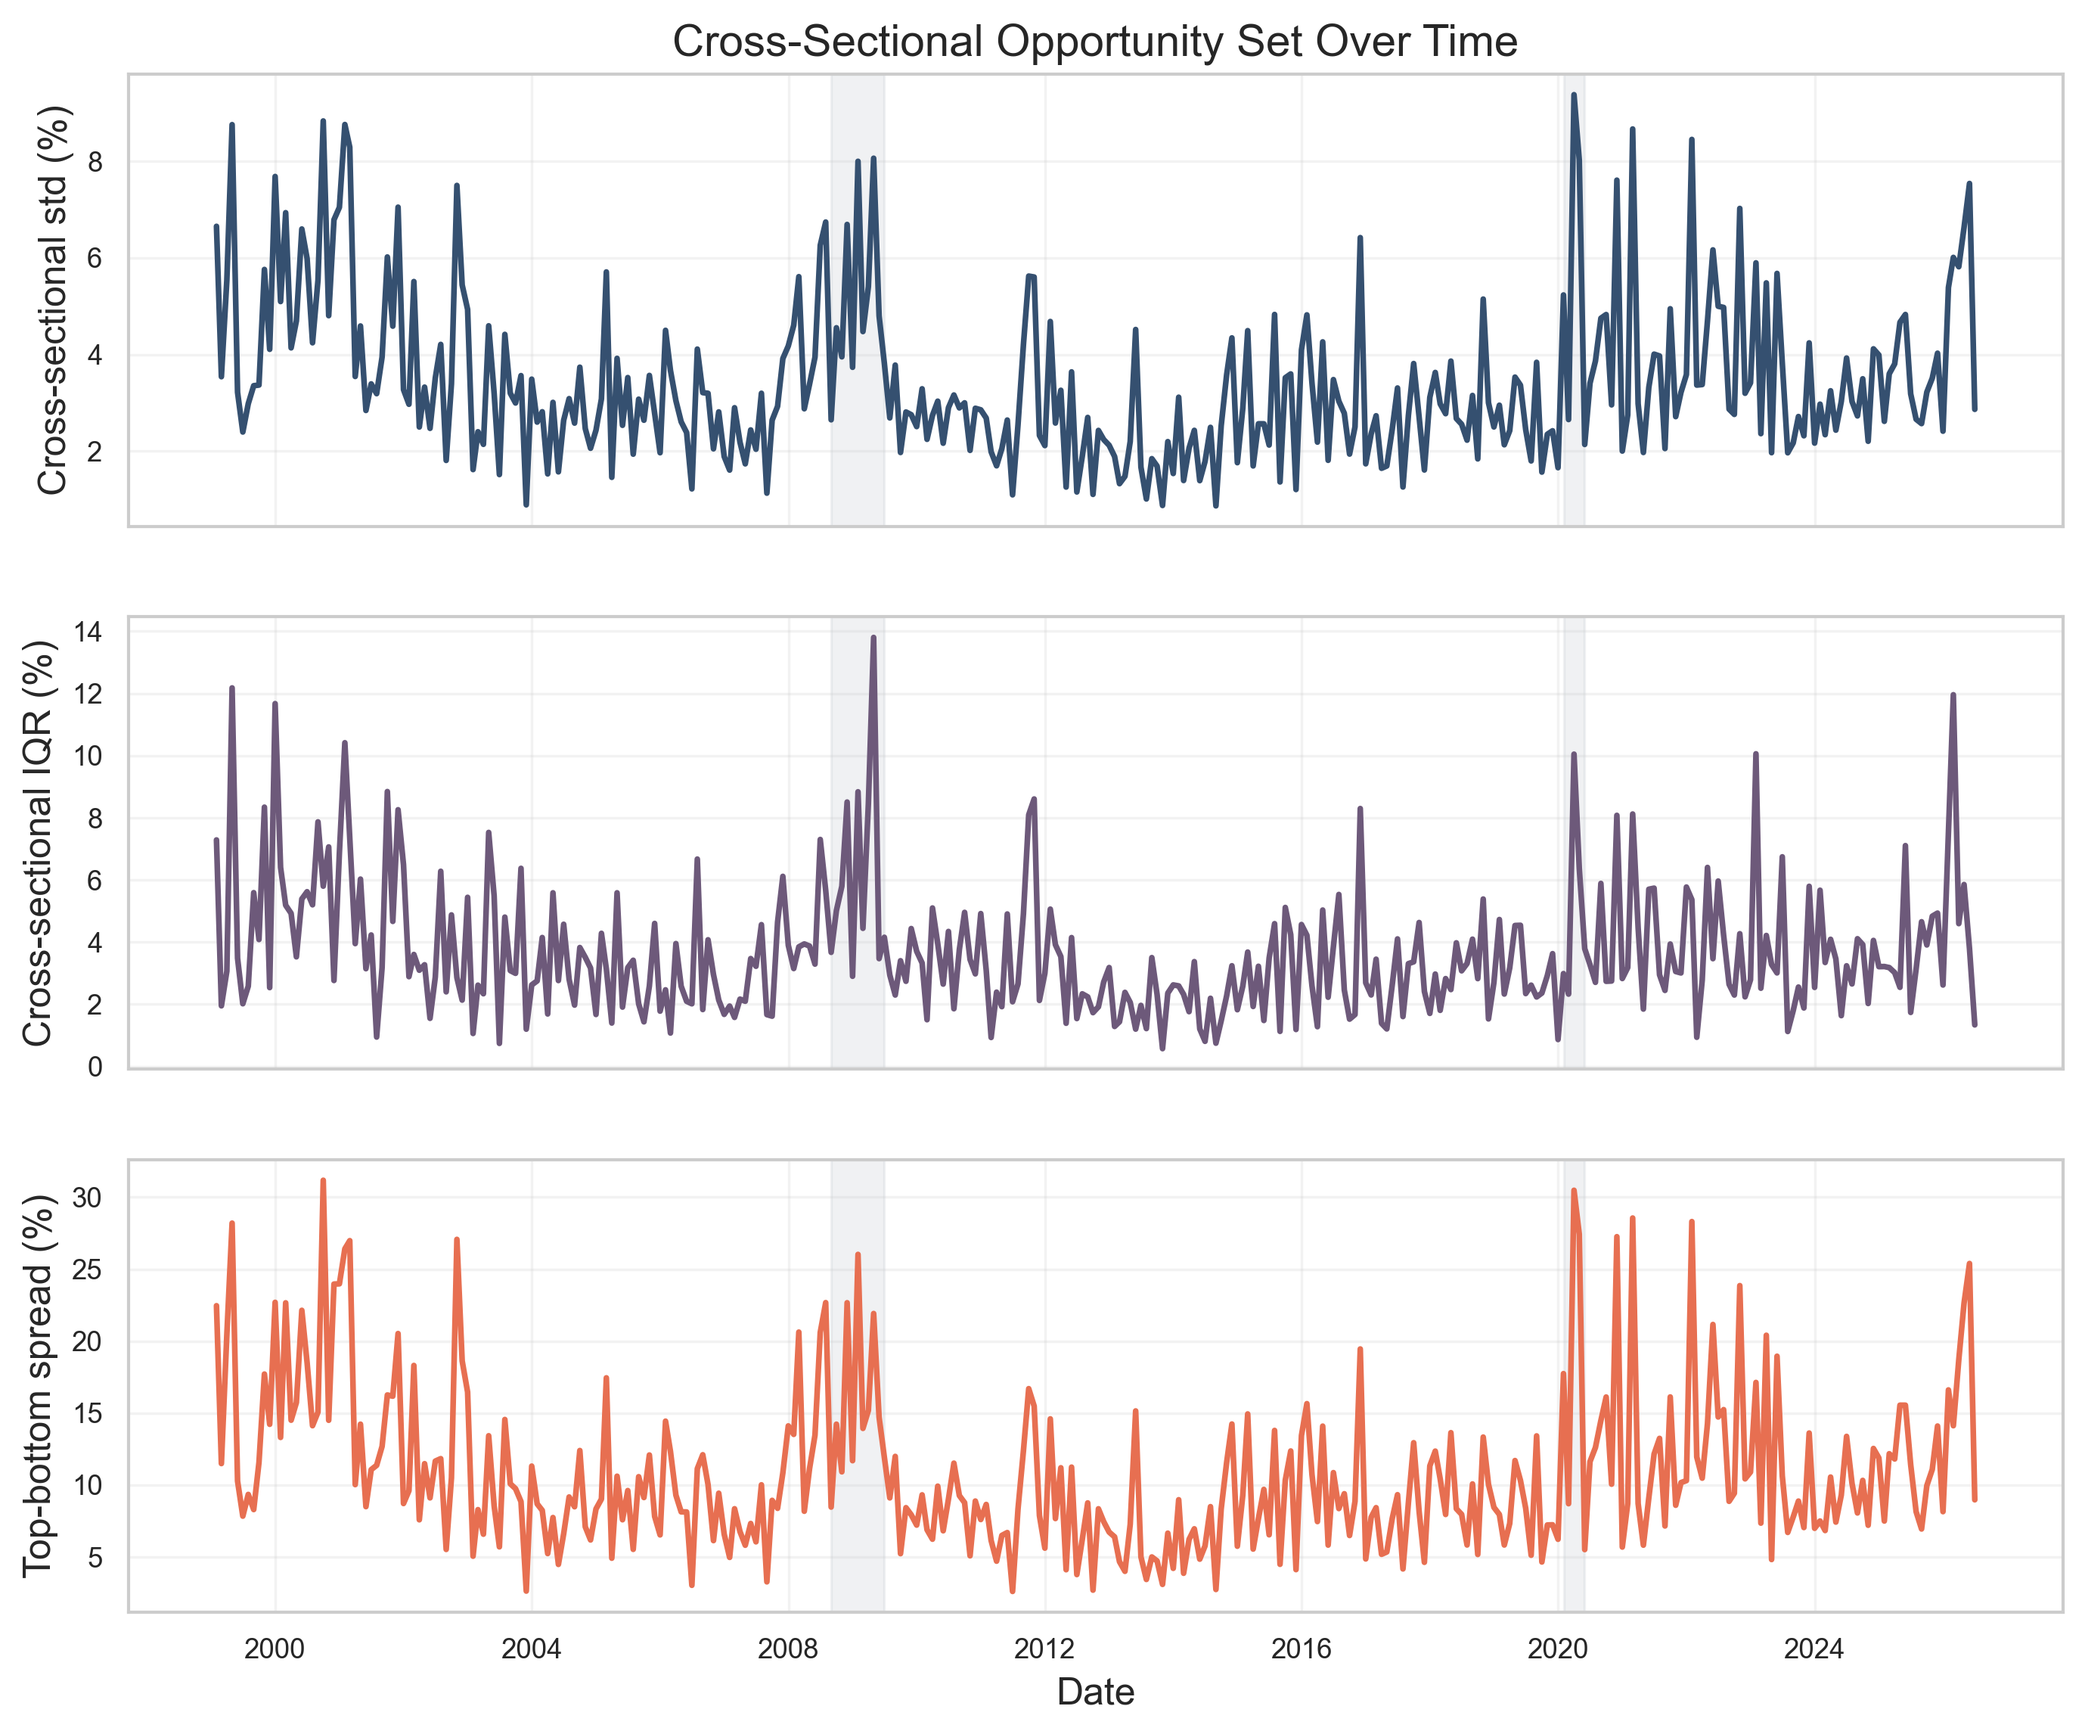
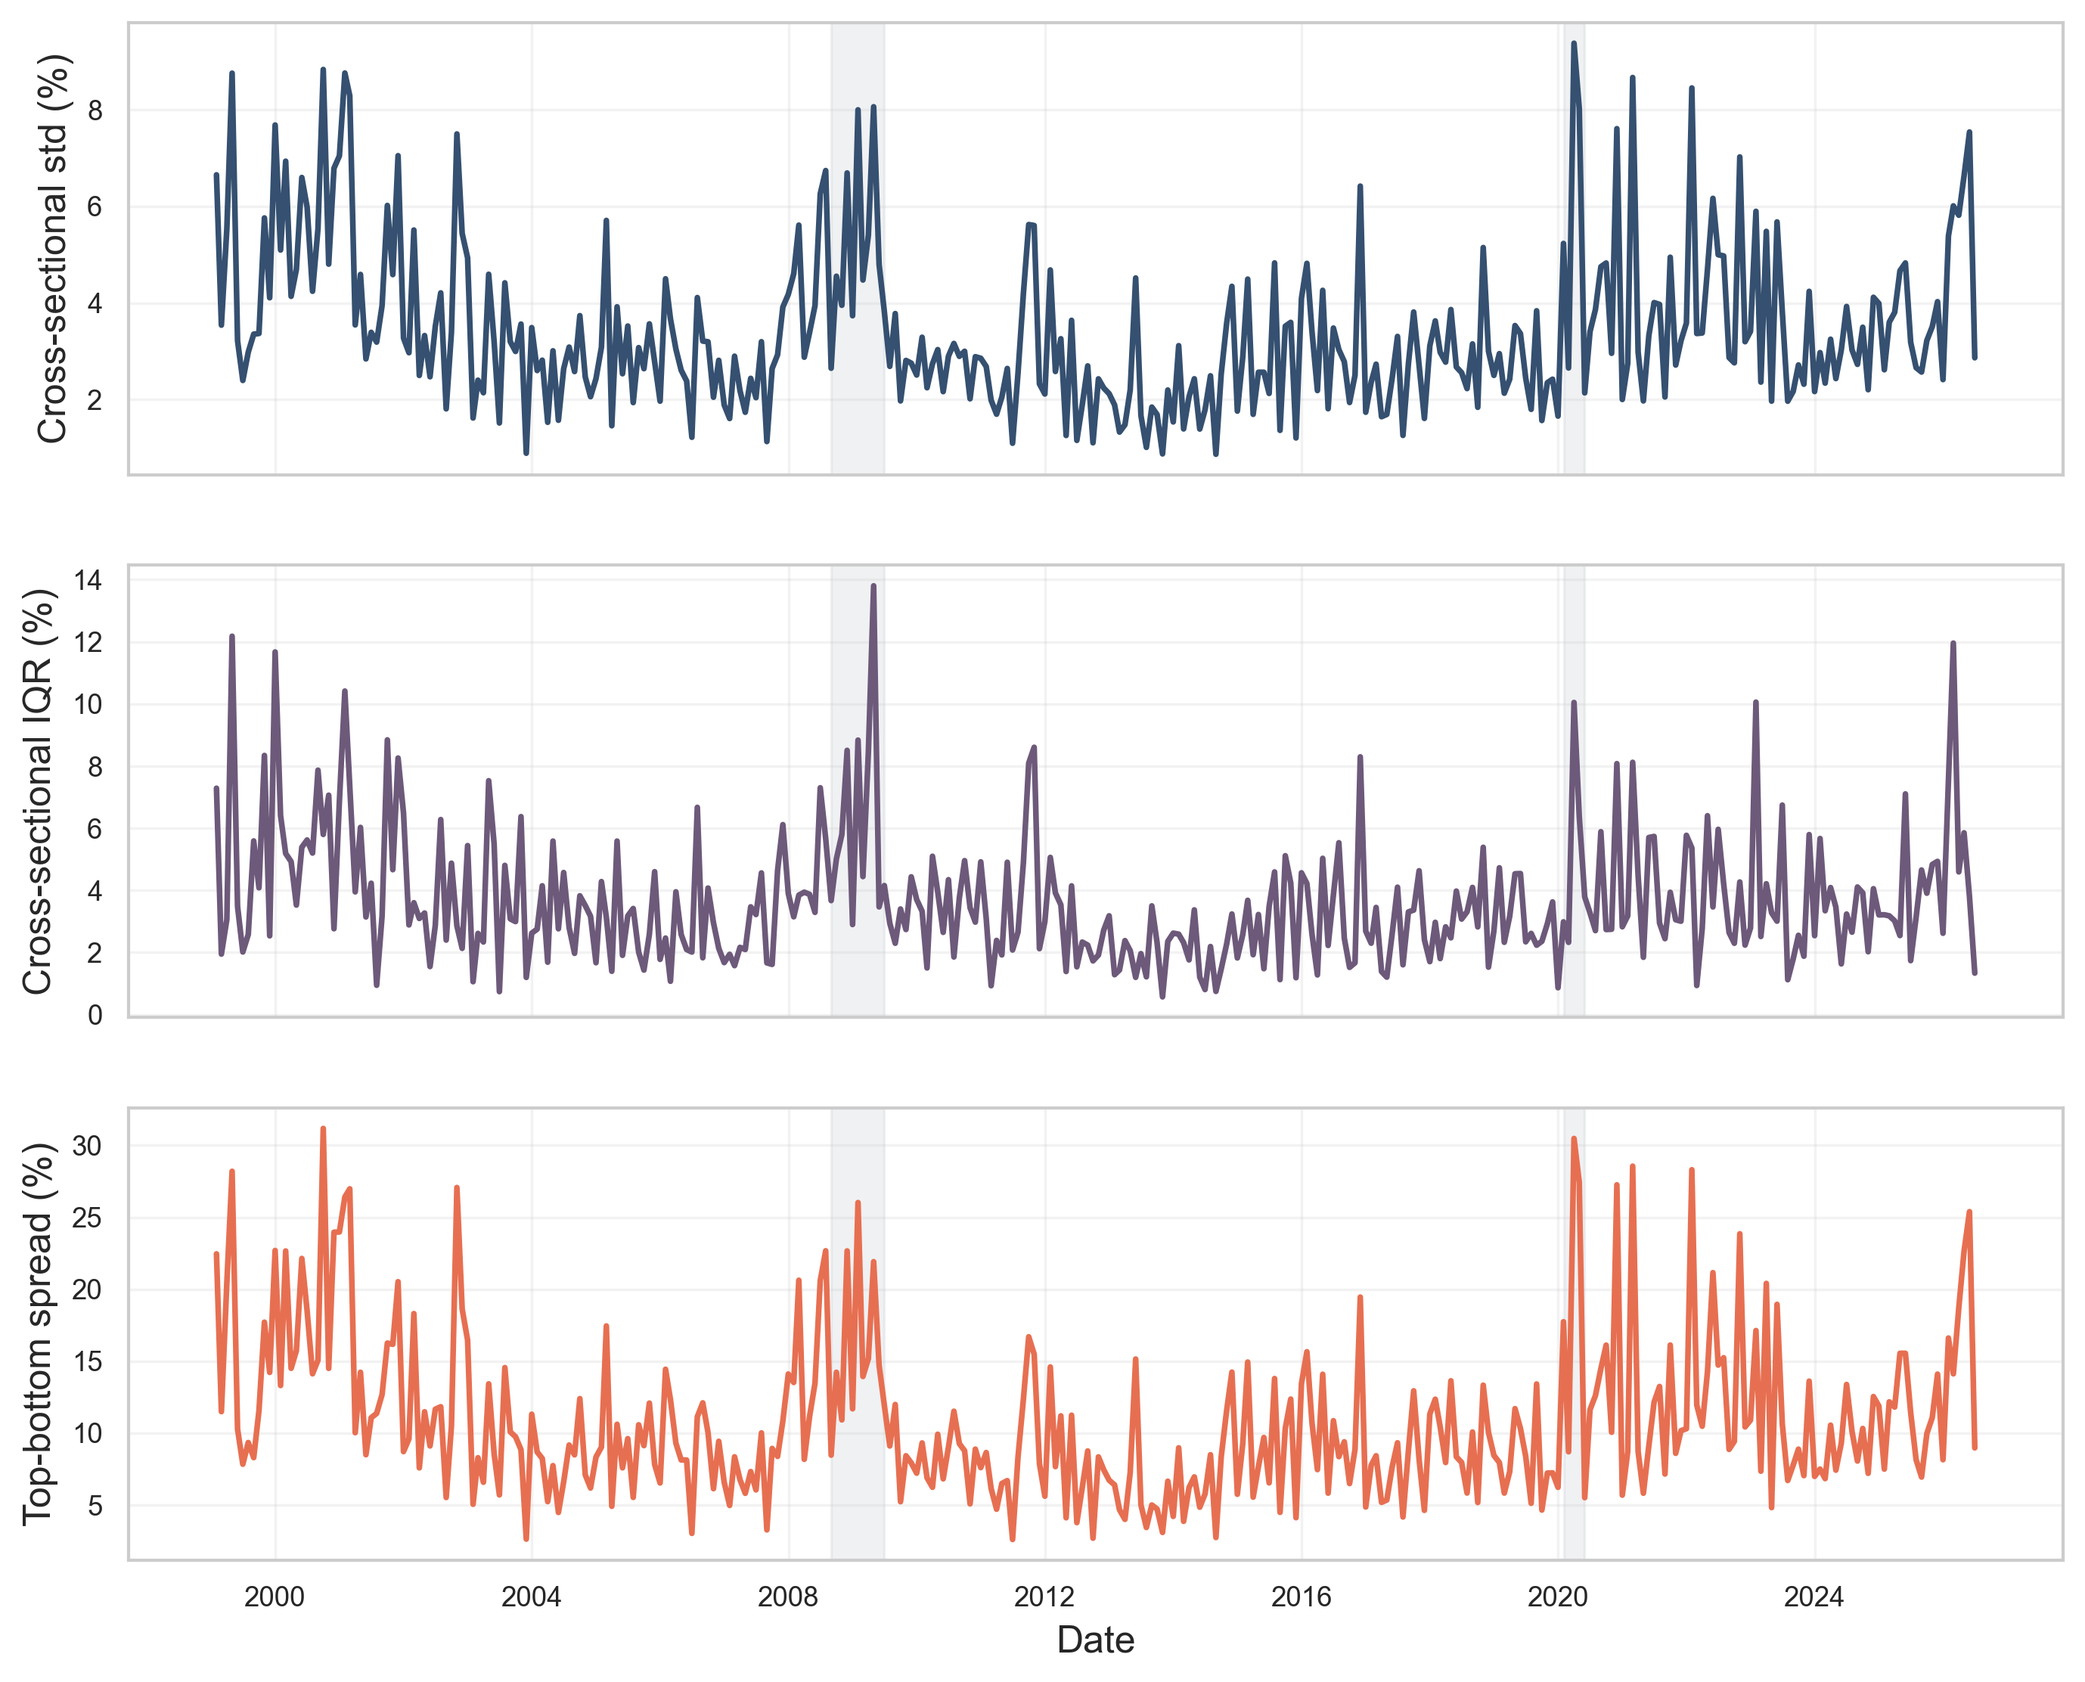
Refine appendix figures for citation layout

diff --git a/scripts/generate_report_assets.py b/scripts/generate_report_assets.py
@@ -1091,7 +1091,6 @@ def make_figure_d2_factor_score_correlation_heatmap() -> None:
 
     plt.figure(figsize=(7.2, 6))
     sns.heatmap(corr, annot=True, cmap="RdBu_r", center=0, fmt=".2f", square=True, cbar_kws={"shrink": 0.8})
-    plt.title("Core Dimension Proxy Correlation")
     plt.xlabel("")
     plt.ylabel("")
     plt.savefig(FIGURES_DIR / "figure_d2_factor_score_correlation_heatmap.png")
@@ -1250,7 +1249,6 @@ def make_figure_dd2_cross_sectional_opportunity_timeseries() -> None:
         for start, end in event_windows:
             ax.axvspan(start, end, color="#adb5bd", alpha=0.18, zorder=0)
         ax.grid(alpha=0.25)
-    axes[0].set_title("Cross-Sectional Opportunity Set Over Time")
     axes[-1].set_xlabel("Date")
     fig.savefig(FIGURES_DIR / "figure_dd2_cross_sectional_opportunity_timeseries.png")
     plt.close(fig)
@@ -1269,7 +1267,6 @@ def make_figure_dd3_market_dependence_bar() -> None:
 
     plt.figure(figsize=(9.5, 6.2))
     ax = sns.barplot(data=plot_frame, x="ticker", y="r_squared_pct", hue="ticker", palette="crest", legend=False)
-    plt.title("Sector ETF Dependence on SPY")
     plt.xlabel("ETF")
     plt.ylabel("Monthly return variance explained by SPY (%)")
     for container in ax.containers:
@@ -1376,7 +1373,7 @@ def make_figure_dd4_regime_dependence_comparison() -> None:
         axes[0].errorbar(offsets, medians, yerr=[lower, upper], fmt="none", ecolor="#444444", capsize=4, lw=1)
     axes[0].set_xticks(x)
     axes[0].set_xticklabels([label.replace(" of returns", "") for label, _ in opportunity_metrics], rotation=0)
-    axes[0].set_title("Opportunity set")
+    axes[0].set_title("(a) Opportunity set")
     axes[0].set_ylabel("Median monthly value (%)")
 
     commonality_x = np.arange(1)
@@ -1396,7 +1393,7 @@ def make_figure_dd4_regime_dependence_comparison() -> None:
         )
     axes[1].set_xticks(commonality_x)
     axes[1].set_xticklabels(["PC1 variance share"])
-    axes[1].set_title("Commonality")
+    axes[1].set_title("(b) Commonality")
     axes[1].set_ylabel("Median monthly share (%)")
 
     for ax in axes:
@@ -1404,17 +1401,8 @@ def make_figure_dd4_regime_dependence_comparison() -> None:
         ax.set_axisbelow(True)
 
     handles = [Patch(facecolor=palette[regime], label=regime) for regime in regimes]
-    fig.legend(handles=handles, labels=regimes, loc="upper center", ncol=2, frameon=True, bbox_to_anchor=(0.5, 0.98))
-    fig.suptitle("Ranking Environment by VIX Regime", y=1.03, fontsize=18)
-    fig.text(
-        0.5,
-        -0.02,
-        "Bars show regime medians; whiskers show interquartile ranges. Commonality is measured as the share of cross-sector return variance explained by the first principal component.",
-        ha="center",
-        va="top",
-        fontsize=10,
-    )
-    fig.tight_layout()
+    fig.legend(handles=handles, labels=regimes, loc="upper center", ncol=2, frameon=True, bbox_to_anchor=(0.5, 1.02))
+    fig.tight_layout(rect=(0, 0, 1, 0.94))
     fig.savefig(FIGURES_DIR / "figure_dd4_regime_dependence_comparison.png", bbox_inches="tight")
     plt.close(fig)
 

diff --git a/scripts/generate_volatility_diagnostics.py b/scripts/generate_volatility_diagnostics.py
@@ -430,7 +430,6 @@ def save_figures(ic_frame: pd.DataFrame, summary_frame: pd.DataFrame) -> None:
     ax.axhline(0.0, color="black", linestyle="--", linewidth=1.0)
     ax.set_xticks(x)
     ax.set_xticklabels([display_labels[label] for label in order], rotation=14, ha="right")
-    ax.set_title("Volatility Candidate IC by VIX Regime")
     ax.set_xlabel("")
     ax.set_ylabel("Mean monthly factor IC")
     ax.legend(frameon=True, loc="upper left")
@@ -438,14 +437,7 @@ def save_figures(ic_frame: pd.DataFrame, summary_frame: pd.DataFrame) -> None:
     upper = float(plot_frame["Mean IC"].max())
     lower = float(plot_frame["Mean IC"].min())
     ax.set_ylim(lower - 0.01, upper + 0.02)
-    fig.text(
-        0.01,
-        -0.04,
-        "Candidates are signed as low-uncertainty signals: lower volatility receives a higher rank.",
-        ha="left",
-        fontsize=10,
-    )
-    fig.tight_layout(rect=(0, 0.03, 1, 1))
+    fig.tight_layout()
     fig.savefig(FIGURES_DIR / "figure_vr2_volatility_candidate_ic_by_regime.png", dpi=300, bbox_inches="tight")
     plt.close(fig)
 

diff --git a/scripts/generate_liquidity_diagnostics.py b/scripts/generate_liquidity_diagnostics.py
@@ -701,7 +701,6 @@ def make_proxy_selection_bar_chart(proxy_selection_df: pd.DataFrame) -> None:
     ax.axvline(1.5, color="#adb5bd", linestyle=":", linewidth=1.2)
     ax.text(0.14, 0.98, "Cross-family screen", transform=ax.transAxes, ha="left", va="top", fontsize=10, color="#495057")
     ax.text(0.77, 0.98, "Amihud family selection", transform=ax.transAxes, ha="left", va="top", fontsize=10, color="#495057")
-    ax.set_title("Liquidity Proxy Selection: Family Screen and Amihud Choice")
     ax.legend(frameon=True, loc="upper left", bbox_to_anchor=(0.0, 0.92))
     ax.grid(axis="y", alpha=0.25)
     upper = float(filtered[["Overall mean IC", "High-VIX mean IC"]].to_numpy().max())

diff --git a/scripts/generate_momentum_diagnostics.py b/scripts/generate_momentum_diagnostics.py
@@ -314,7 +314,6 @@ def make_momentum_regime_bar_chart(summary_df: pd.DataFrame) -> None:
     ax.set_xticklabels(order, rotation=8)
     ax.set_ylabel("Mean monthly IC")
     ax.set_xlabel("Candidate proxy")
-    ax.set_title("Market-Adjusted Momentum Candidate IC by VIX Regime", pad=12)
     ax.legend(frameon=True, loc="upper left")
     ax.grid(axis="y", alpha=0.22)
     ax.margins(x=0.05)
